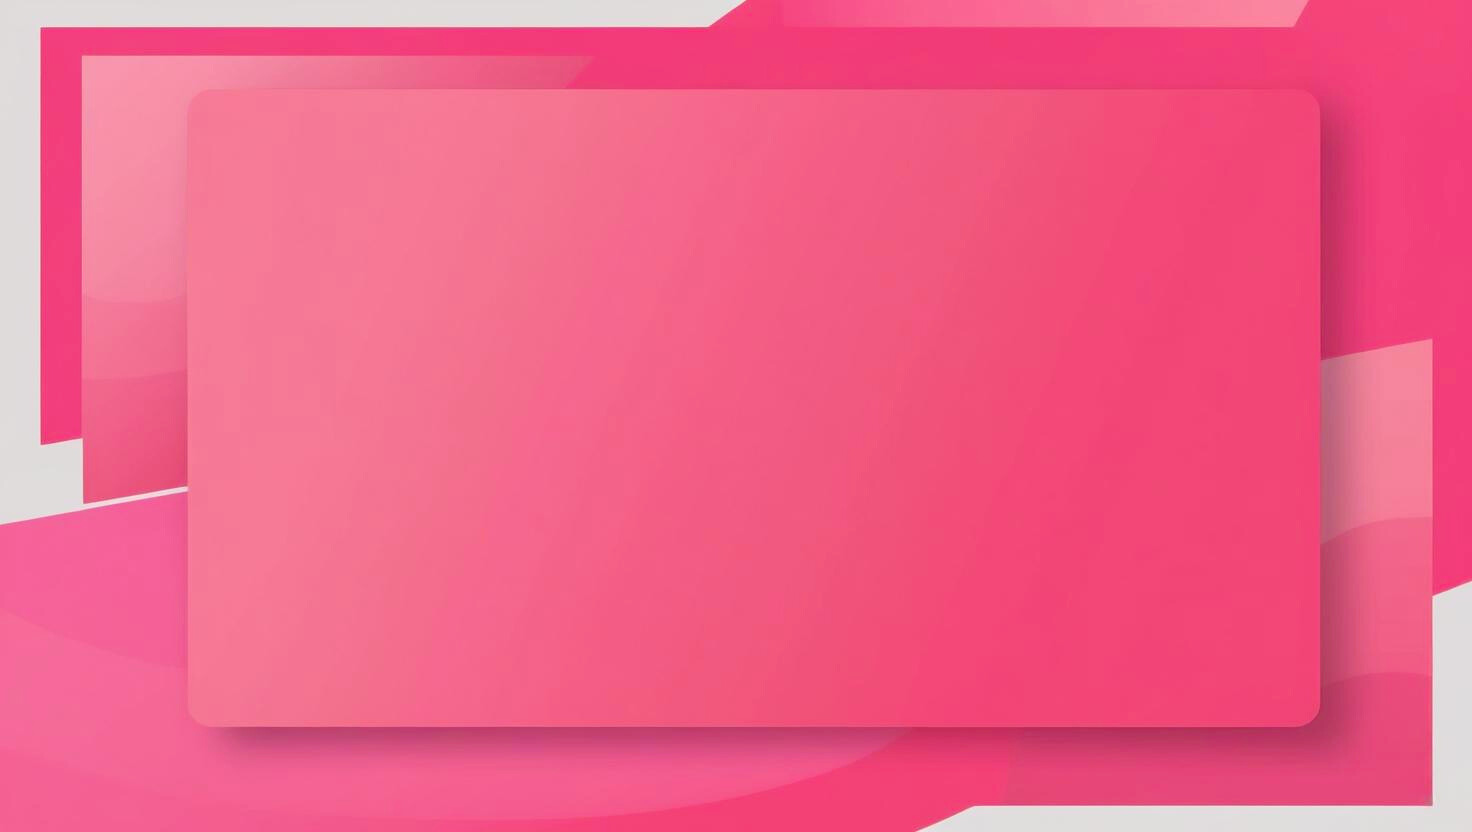
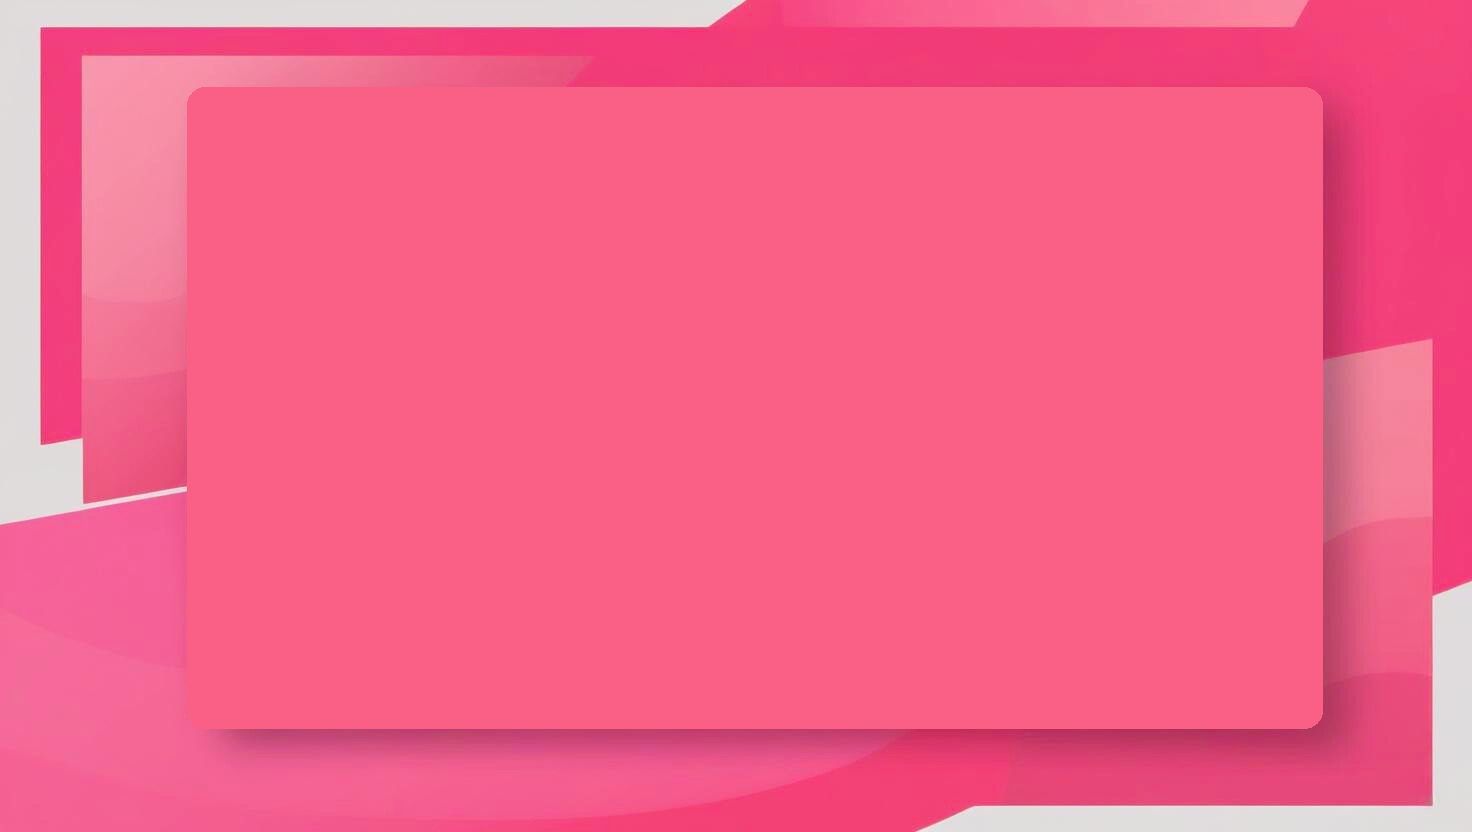
ajuste style

Changed region(s): [[0.625, 0.0938, 0.9062, 0.875], [0.125, 0.0938, 0.3438, 0.8125]]

diff --git a/src/styles/ComoFunciona.css b/src/styles/ComoFunciona.css
@@ -2,7 +2,7 @@
   display: flex;
   justify-content: center;
   padding: 60px 20px;
-  background-color: #fff;
+    background: linear-gradient(135deg,  #FFD700, #fae25c);
 }
 
 .como-funciona-content {
@@ -20,7 +20,8 @@
   font-size: 24px;
   margin-top: 30px;
   margin-bottom: 15px;
-  color: #FFD700;
+  color: #ff0080;
+  text-shadow: 1px 1px 2px rgba(0, 0, 0, 0.6);
 }
 
 .descricao {

diff --git a/src/styles/Contact.css b/src/styles/Contact.css
@@ -3,7 +3,7 @@
     align-items: center;
     justify-content: center;
     min-height: 100vh;
-    background: linear-gradient(135deg, #FC3F75, #e3e3e3);
+     background: linear-gradient(135deg, #FC3F75, #f72963);
     padding: 40px;
 }
 

diff --git a/src/styles/CarouselServ.css b/src/styles/CarouselServ.css
@@ -1,6 +1,6 @@
 .service-carousel-wrapper {
   padding: 40px 20px;
-  background: linear-gradient(135deg, #fade41, #FFD700);
+     background: linear-gradient(135deg,  #FFD700, #fae25c);
   text-align: center;
   height: 100vh;
 }
